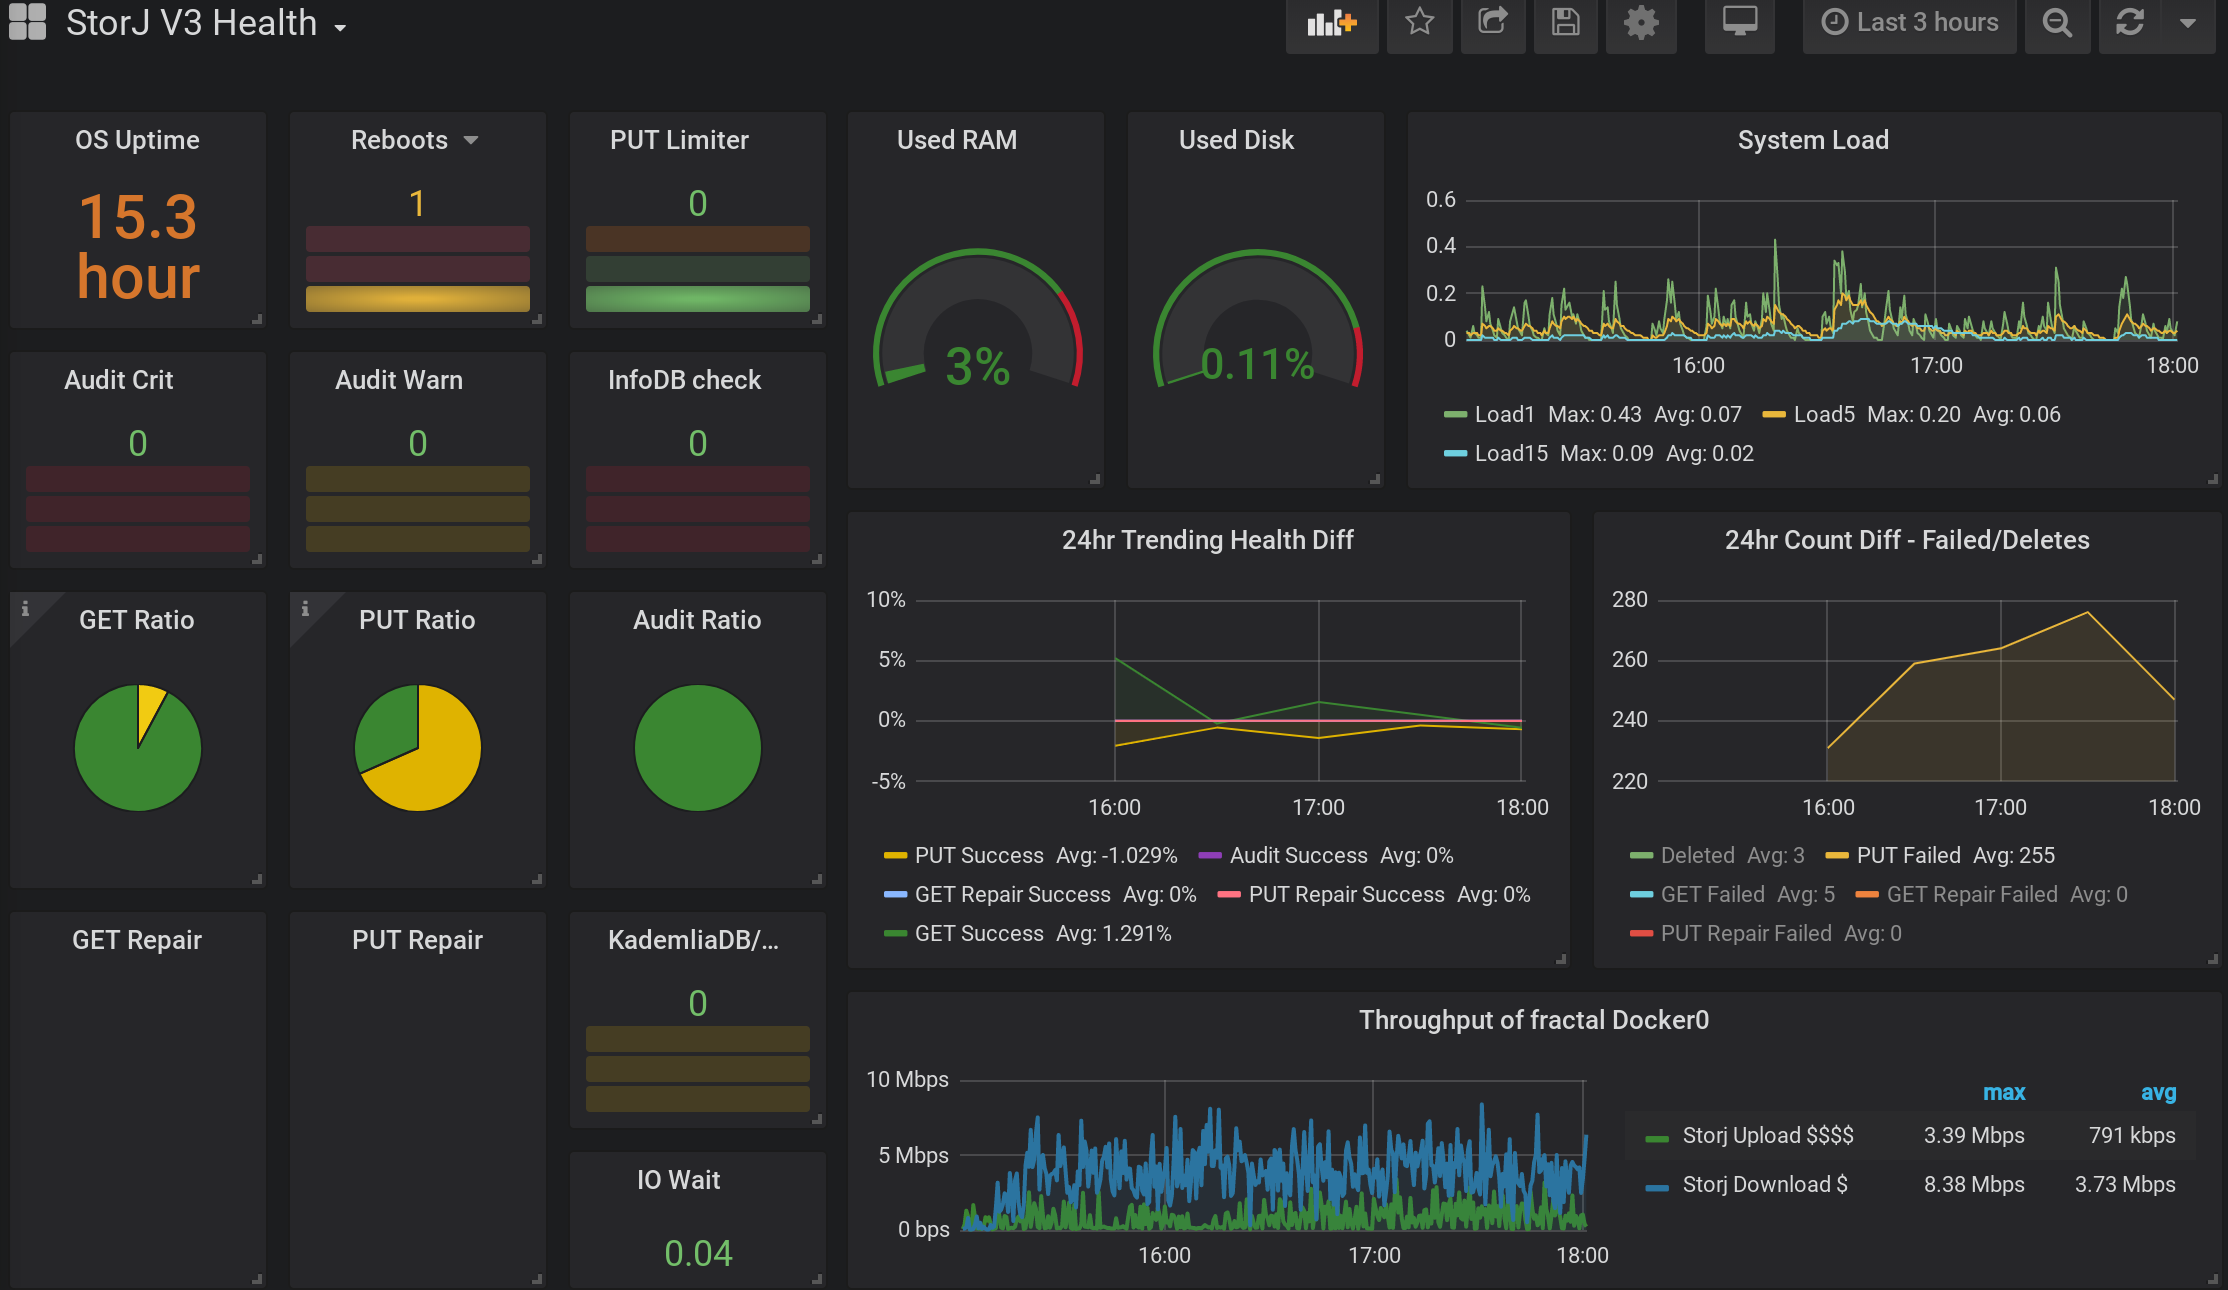
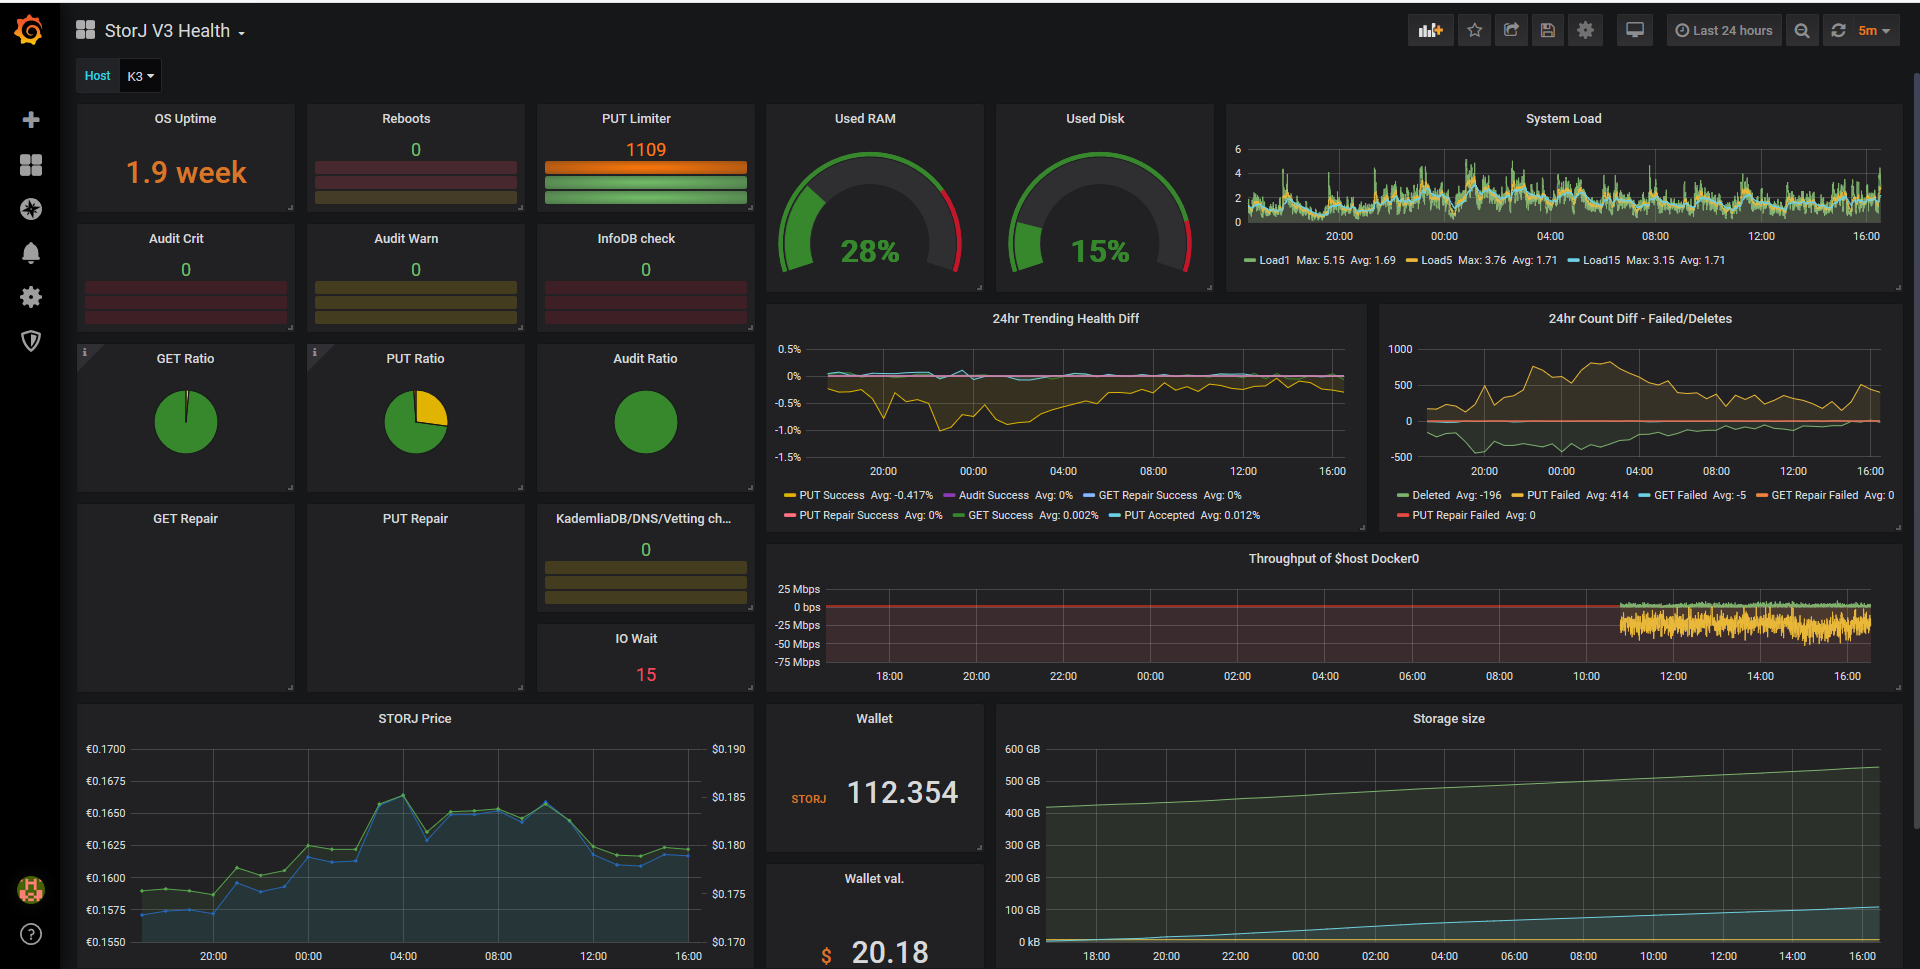
Update dashboard preview.

diff --git a/README.md b/README.md
@@ -1,6 +1,8 @@
 # storj_telegraf_mon
 Success Rates output using StorJ logs with telegraf [inputs.exec] to InfluxDB format.
 
+<img src="https://raw.githubusercontent.com/gsxryan/storj_telegraf_mon/master/Dashboard/Preview.png"/>
+
 ## Installation
 Add/Append this block to your telegraf.conf
   
